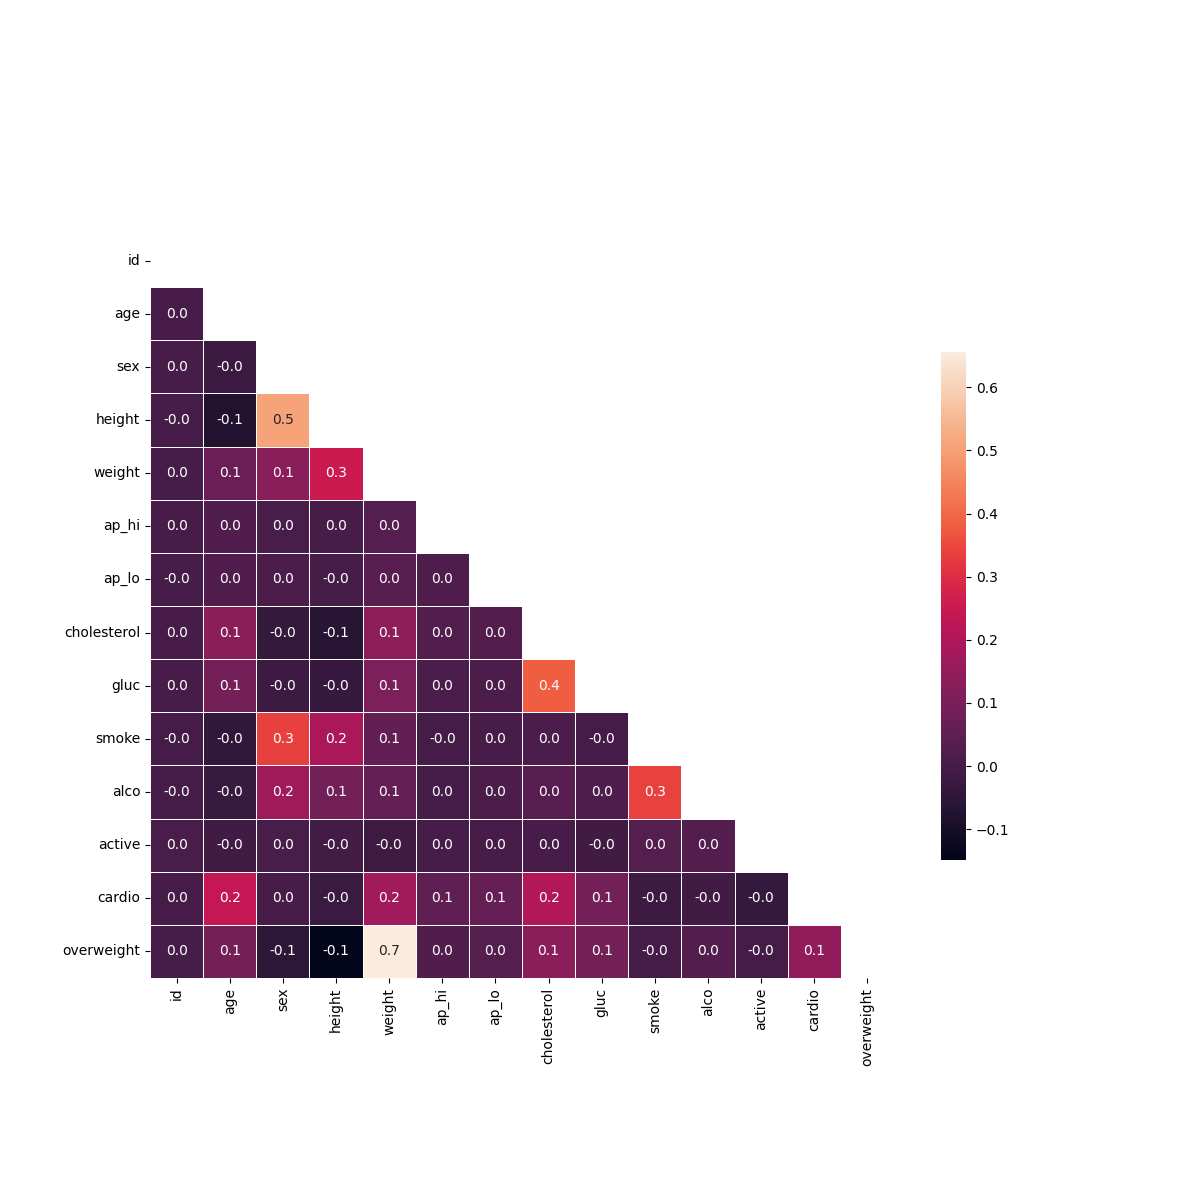
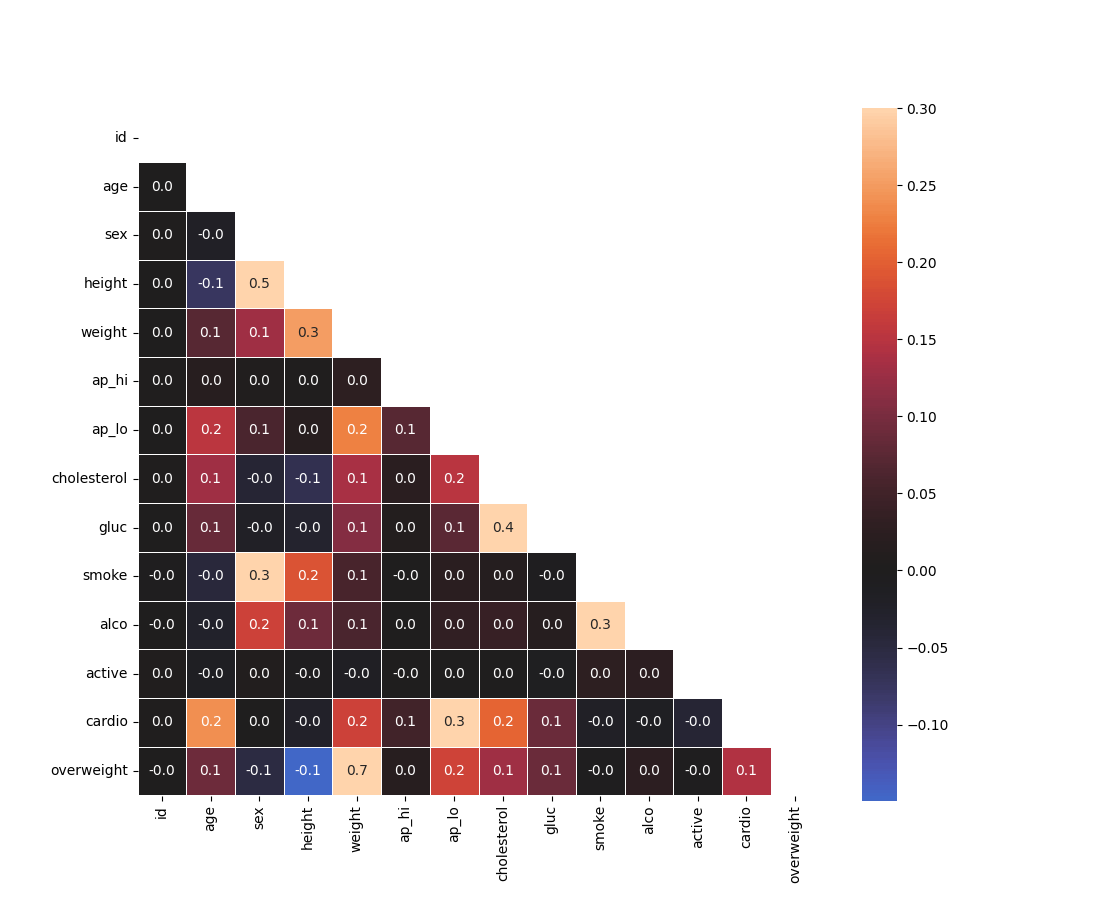
Fix: add extra data cleaning filter segment

Changed region(s): [[0.0618, 0.1556, 0.7418, 0.9644], [0.7727, 0.1244, 0.8655, 0.9022]]

diff --git a/medical_data_visualizer.py b/medical_data_visualizer.py
@@ -39,7 +39,7 @@ def draw_cat_plot():
 # 10
 def draw_heat_map():
     # 11
-    df_heat = df_heat = df.loc[(df['height'] >= df['height'].quantile(0.025)) & (df['height'] <= df['height'].quantile(0.975)) & (df['weight'] >= df['weight'].quantile(0.025)) & (df['weight'] <= df['weight'].quantile(0.975))]
+    df_heat = df_heat = df.loc[(df['ap_lo'] <= df['ap_hi']) & (df['height'] >= df['height'].quantile(0.025)) & (df['height'] <= df['height'].quantile(0.975)) & (df['weight'] >= df['weight'].quantile(0.025)) & (df['weight'] <= df['weight'].quantile(0.975))]
 
     # 12
     corr = df_heat.corr()
@@ -50,10 +50,10 @@ def draw_heat_map():
 
 
     # 14
-    fig, ax = plt.subplots(figsize = (12,12))
+    fig, ax = plt.subplots(figsize = (11,9))
 
     # 15
-    sns.heatmap(corr, mask=mask, annot=True, fmt='0.1f', linewidths=.5, square=True, cbar_kws={'shrink': .55})
+    sns.heatmap(corr, mask=mask, annot=True, fmt='0.1f', linewidths=.5, square=True, center=0, vmax=.3)
 
 
     # 16
